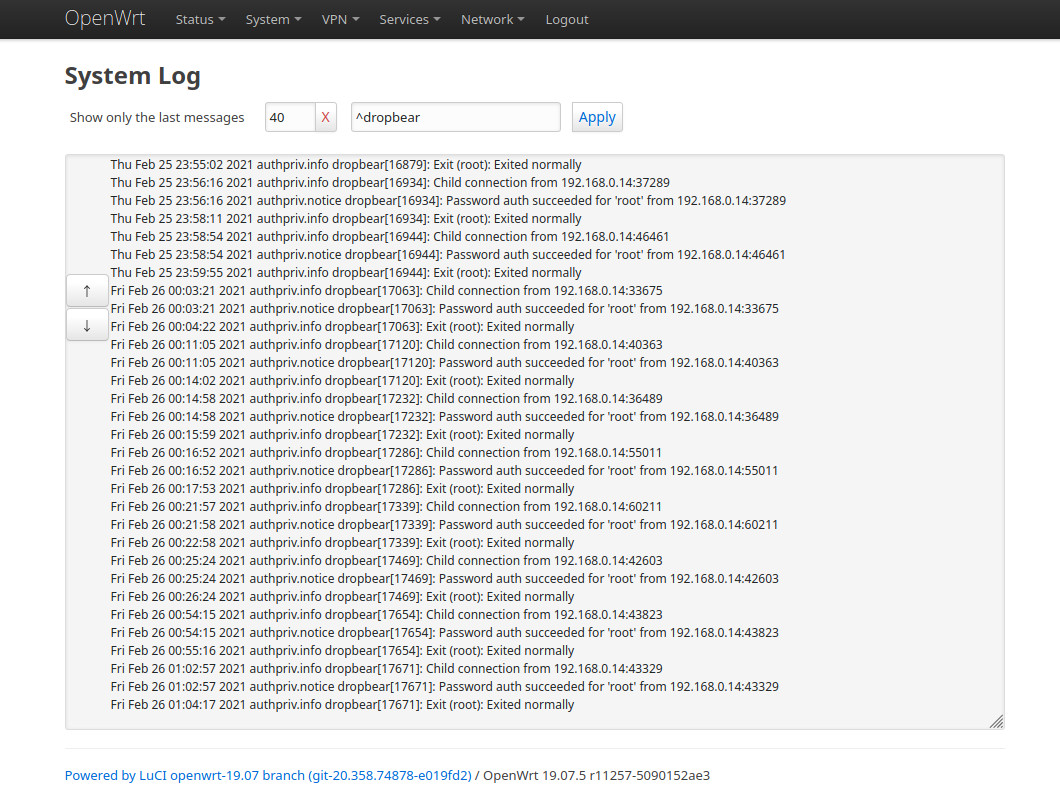
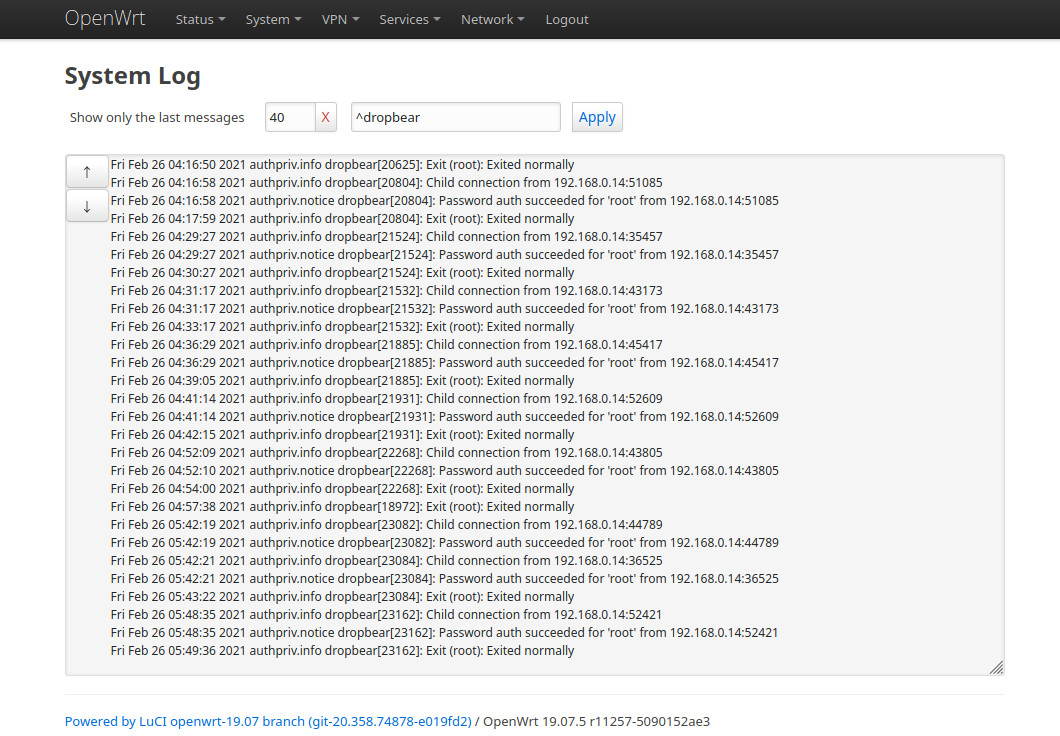
Scroll buttons position

diff --git a/htdocs/luci-static/resources/view/syslog.js b/htdocs/luci-static/resources/view/syslog.js
@@ -27,7 +27,7 @@ return L.view.extend({
 	},
 
 	render: function(logdata) {
-		let navBtnsTop = '120px';
+		let navBtnsTop = '1px';
 
 		let logTextarea = E('textarea', {
 			'id': 'syslog',

diff --git a/README.md b/README.md
@@ -5,16 +5,16 @@ OpenWrt >= 19.07.
 
 **Installation notes:**
 
-    wget --no-check-certificate -O /tmp/luci-app-syslog_0.4-2_all.ipk https://github.com/gSpotx2f/luci-app-syslog/raw/master/packages/19.07/luci-app-syslog_0.4-2_all.ipk
-    opkg install /tmp/luci-app-syslog_0.4-2_all.ipk
-    rm /tmp/luci-app-syslog_0.4-2_all.ipk
+    wget --no-check-certificate -O /tmp/luci-app-syslog_0.4-3_all.ipk https://github.com/gSpotx2f/luci-app-syslog/raw/master/packages/19.07/luci-app-syslog_0.4-3_all.ipk
+    opkg install /tmp/luci-app-syslog_0.4-3_all.ipk
+    rm /tmp/luci-app-syslog_0.4-3_all.ipk
     /etc/init.d/rpcd restart
 
 **i18n-ru:**
 
-    wget --no-check-certificate -O /tmp/luci-i18n-syslog-ru_0.4-2_all.ipk https://github.com/gSpotx2f/luci-app-syslog/raw/master/packages/19.07/luci-i18n-syslog-ru_0.4-2_all.ipk
-    opkg install /tmp/luci-i18n-syslog-ru_0.4-2_all.ipk
-    rm /tmp/luci-i18n-syslog-ru_0.4-2_all.ipk
+    wget --no-check-certificate -O /tmp/luci-i18n-syslog-ru_0.4-3_all.ipk https://github.com/gSpotx2f/luci-app-syslog/raw/master/packages/19.07/luci-i18n-syslog-ru_0.4-3_all.ipk
+    opkg install /tmp/luci-i18n-syslog-ru_0.4-3_all.ipk
+    rm /tmp/luci-i18n-syslog-ru_0.4-3_all.ipk
 
 **Screenshots:**
 
